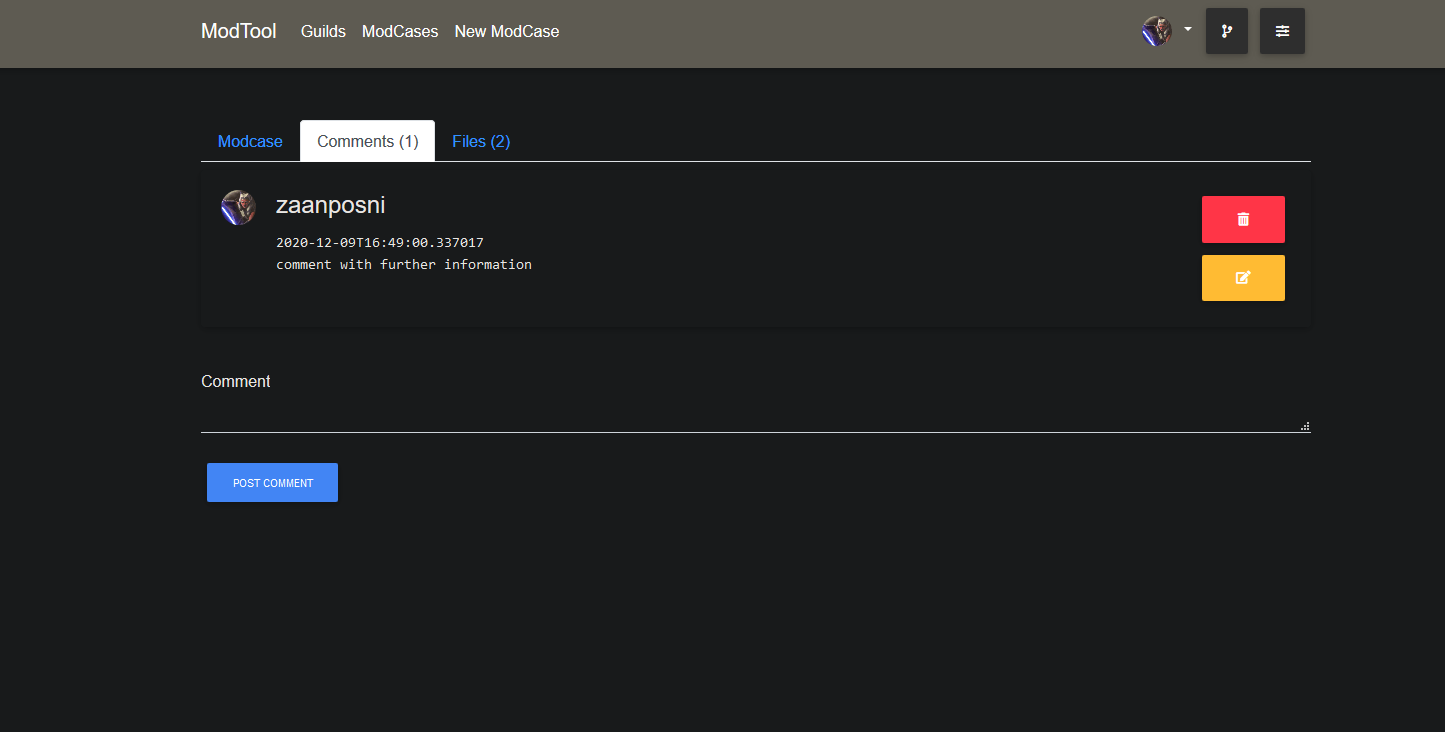
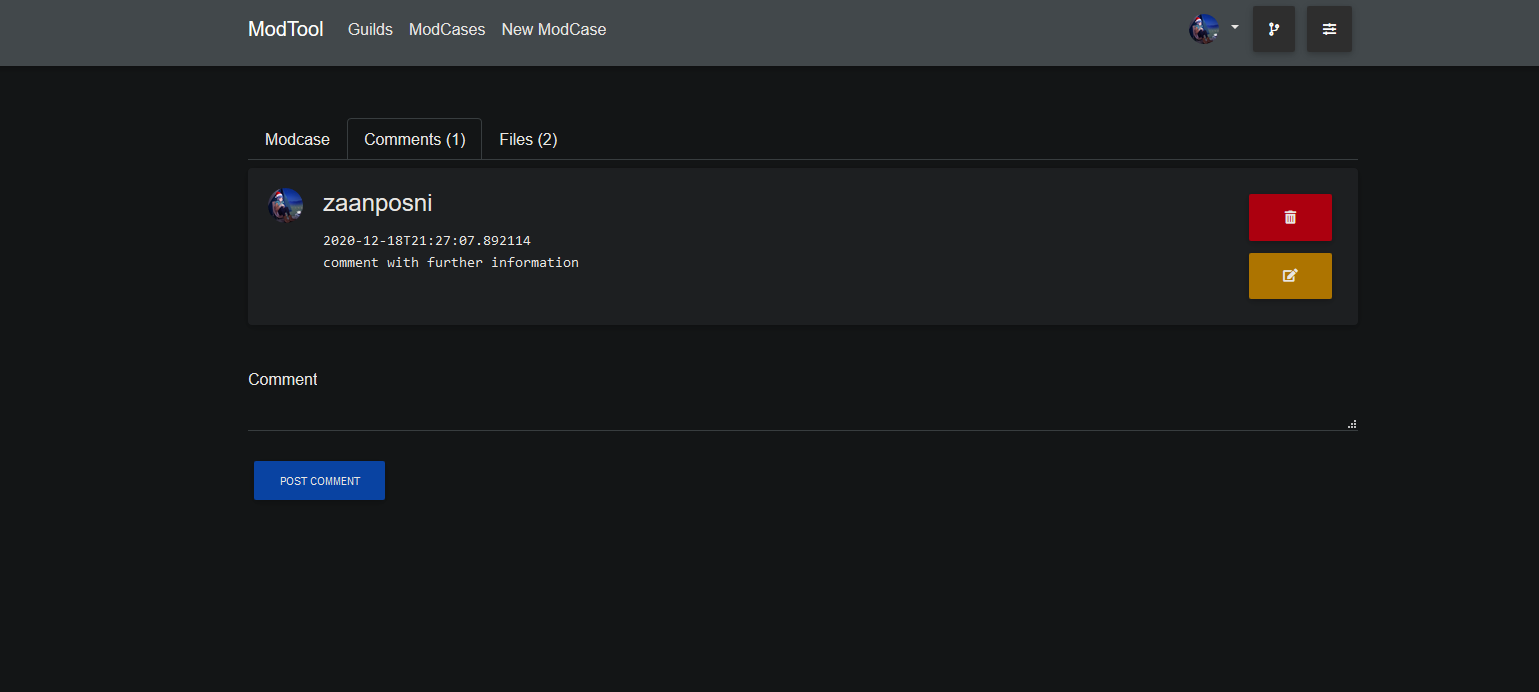
refactored dark theme

diff --git a/webinterface/app/public/css/dark.css b/webinterface/app/public/css/dark.css
@@ -1,45 +1,3 @@
-.jfk-bubble.gtx-bubble, .captcheck_answer_label > input + img, embed[type=\"application/pdf\"] {
-    filter: invert(100%) hue-rotate(180deg) contrast(90%) !important;
-}
-[data-darkreader-inline-bgcolor] {
-    background-color: var(--darkreader-inline-bgcolor) !important;
-}
-[data-darkreader-inline-bgimage] {
-    background-image: var(--darkreader-inline-bgimage) !important;
-}
-[data-darkreader-inline-border] {
-    border-color: var(--darkreader-inline-border) !important;
-}
-[data-darkreader-inline-border-bottom] {
-    border-bottom-color: var(--darkreader-inline-border-bottom) !important;
-}
-[data-darkreader-inline-border-left] {
-    border-left-color: var(--darkreader-inline-border-left) !important;
-}
-[data-darkreader-inline-border-right] {
-    border-right-color: var(--darkreader-inline-border-right) !important;
-}
-[data-darkreader-inline-border-top] {
-    border-top-color: var(--darkreader-inline-border-top) !important;
-}
-[data-darkreader-inline-boxshadow] {
-    box-shadow: var(--darkreader-inline-boxshadow) !important;
-}
-[data-darkreader-inline-color] {
-    color: var(--darkreader-inline-color) !important;
-}
-[data-darkreader-inline-fill] {
-    fill: var(--darkreader-inline-fill) !important;
-}
-[data-darkreader-inline-stroke] {
-    stroke: var(--darkreader-inline-stroke) !important;
-}
-[data-darkreader-inline-outline] {
-    outline-color: var(--darkreader-inline-outline) !important;
-}
-[data-darkreader-inline-stopcolor] {
-    stop-color: var(--darkreader-inline-stopcolor) !important;
-}
 :root {
     --darkreader-neutral-background: #181a1b;
     --darkreader-neutral-text: #e8e6e3;
@@ -47,10 +5,10 @@
     --darkreader-selection-text: #e8e6e3;
 }
 html {
-    background-color: #181a1b !important;
+    background-color: #131516 !important;
 }
 html, body, input, textarea, select, button {
-    background-color: #181a1b;
+    background-color: #131516;
 }
 html, body, input, textarea, select, button {
     border-color: #736b5e;
@@ -99,16 +57,6 @@ select:-webkit-autofill {
     color: #e8e6e3 !important;
 }
 
-
-
-
-
-
-.vimvixen-hint {
-    background-color: #7b5300 !important;
-    border-color: #d8b013 !important;
-    color: #f3e8c8 !important;
-}
 ::placeholder {
     opacity: 0.5 !important;
 }
@@ -119,15 +67,18 @@ select:-webkit-autofill {
 
 .custom-select, .custom-select:focus, input[class*="form-control"], input[class*="form-control:focus"], .dataTables_wrapper .form-control:focus {
     background-color: unset!important;
+    border-color: #383d3f!important;
     color: unset;
 }
 
 .custom-select option {
     background-color: #181a1b!important;
+    border-color: #383d3f!important;
 }
 
 .md-form > .form-control, .md-form > .form-control:focus {
     color: unset !important;
+    border-bottom-color: #383d3f!important;
 }
 
 .text-black-50 {
@@ -139,9 +90,13 @@ select:-webkit-autofill {
     background-color: inherit;
 }
 
-.card, .modal-content, .toast, .label-box {
+.modal-content {
+    background-color: #181a1b;
+}
+
+.card, .toast, .label-box {
     color: #e8e6e3;
-    background-color: var(--darkreader-neutral-background);
+    background-color: #131414;
     border-color: #828385;
 }
 
@@ -150,7 +105,7 @@ select:-webkit-autofill {
 }
 
 .table th, .table td {
-    border-top-color: #828385;
+    border-top-color: #383d3f;
 }
 
 .fa-plus  {
@@ -170,4 +125,73 @@ select:-webkit-autofill {
 .picker__day--highlighted {
     background-color: inherit;
     color: inherit;
+}
+
+.dropdown-menu, .dropdown-item, .dropdown-item:hover {
+    background-color: #242729;
+    color: #e8e6e3;
+}
+
+.custom-footer {
+    background-color: #1d1f21!important;
+}
+
+.nav-link {
+    color: #e8e6e3!important;
+}
+
+.nav-link:hover {
+    border-color: #383d3f!important;
+}
+
+.nav-link.active {
+    background-color: inherit!important;
+    border-color: #383d3f!important;
+}
+
+.nav-tabs {
+    border-color: #383d3f!important;
+}
+
+.close, .close:hover {
+    color: #e8e6e3;
+}
+
+.navbar {
+    background-color: #42484b!important;
+}
+
+.badge-danger {
+    background-color: rgb(172, 0, 15) !important;
+    color: rgb(232, 230, 227) !important;
+}
+
+.btn-danger {
+    background-color: rgb(172, 0, 15) !important;
+    color: rgb(232, 230, 227) !important;
+}
+
+.btn-default {
+    background-color: rgb(34, 150, 138) !important;
+    color: rgb(232, 230, 227) !important;
+}
+
+.btn-warning {
+	background-color: rgb(173, 116, 0) !important;
+    color: rgb(232, 230, 227) !important;
+}
+
+.btn-primary {
+	background-color: rgb(9, 67, 162) !important;
+    color: rgb(232, 230, 227) !important;
+}
+
+.btn-orange {
+	background-color: rgb(196, 99, 0) !important;
+    color: rgb(232, 230, 227) !important;
+}
+
+.btn-success {
+	background-color: rgb(0, 160, 65) !important;
+    color: rgb(232, 230, 227) !important;
 }
